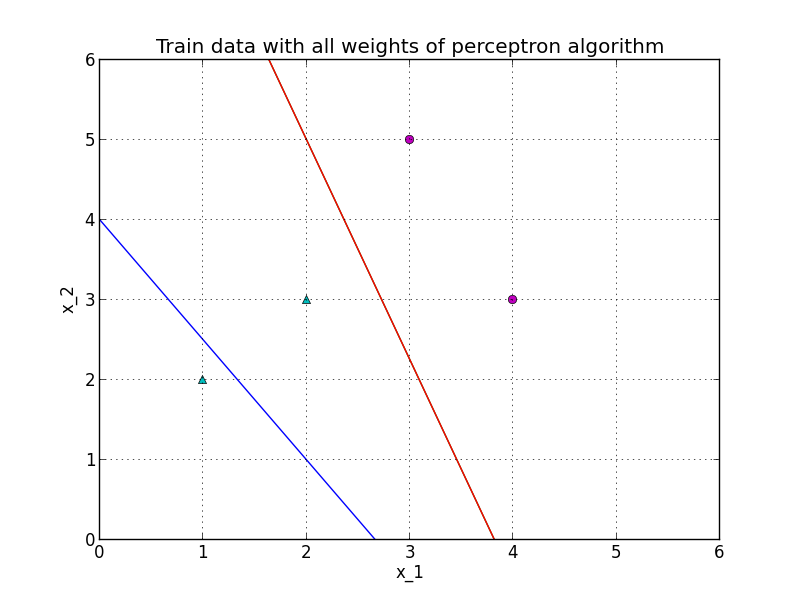
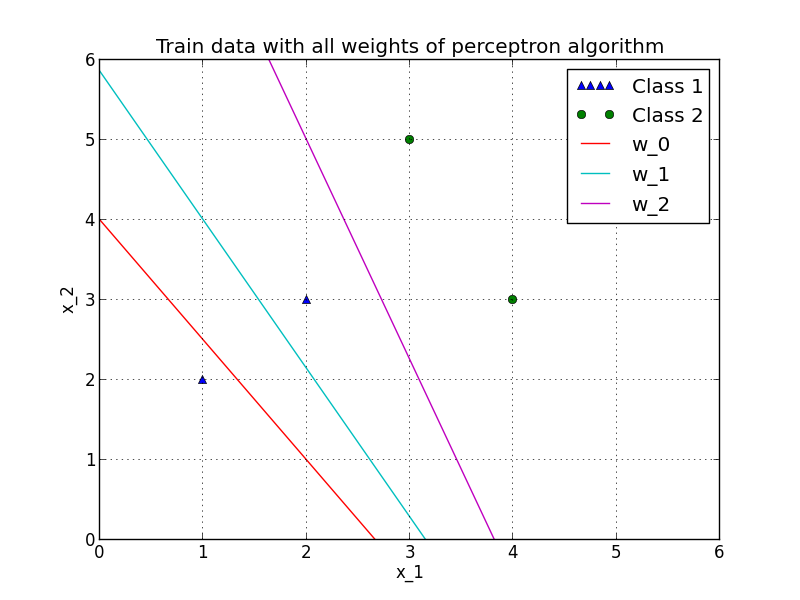
resized plot in README.md, initialized new weight vec in every iteration

diff --git a/src/perceptron.py b/src/perceptron.py
@@ -15,7 +15,6 @@ class Perceptron():
     # First calculate all feature vectors, which are not correct classified with the current weight. Afterwards apply
     # the perceptron learning rule to them.
     def train(self):
-        weight_new = [0.0, 0.0, 0.0]
         weight_old = self.weights[len(self.weights) - 1]
         (is_lin_sep, y_w) = self.is_linear_separation(weight_old)
 
@@ -26,13 +25,13 @@ class Perceptron():
                 sum[1] = sum[1] - self.target_values[i] * self.train_data[0][i]
                 sum[2] = sum[2] - self.target_values[i] * self.train_data[1][i]
 
+            weight_new = [0.0, 0.0, 0.0]
             for i in range(0, 3, 1):
                 weight_new[i] = weight_old[i] - self.rate * sum[i]
 
             self.weights.append(weight_new)
             weight_old = self.weights[len(self.weights) - 1]
             (is_lin_sep, y_w) = self.is_linear_separation(weight_old)
-
         return self.weights
 
     # Method determines whether the current weight classifies a feature vector as member of class 1 or -1.

diff --git a/src/plot.py b/src/plot.py
@@ -1,4 +1,5 @@
 import matplotlib.pyplot as plt
+from matplotlib.legend_handler import HandlerLine2D
 import numpy as np
 
 import src.perceptron
@@ -11,18 +12,20 @@ rate = 0.1;
 perceptron = src.perceptron.Perceptron(weight, rate, train_data, target_values)
 weights_all = perceptron.train()
 
+line1, = plt.plot(train_data[0][:2], train_data[1][:2], '^', label='Class 1')
+plt.plot(train_data[0][2:], train_data[1][2:], 'o', label='Class 2')
+
 t = np.arange(0.0, 6.0, 0.01)
-
-for i in weights_all:
-    y = (-t * i[1] - i[0]) / i[2]
-    plt.plot(t, y)
-
-plt.plot(train_data[0][:2], train_data[1][:2], '^')
-plt.plot(train_data[0][2:], train_data[1][2:], 'o')
+for index, value in enumerate(weights_all):
+    y = (-t * value[1] - value[0]) / value[2]
+    line, = plt.plot(t, y, label="w_" + str(index))
+    plt.legend(handler_map={line: HandlerLine2D(numpoints=4)})
 
 axes = plt.gca()
 axes.set_xlim([0.0, 6.0])
 axes.set_ylim([0.0, 6.0])
+
+plt.legend(handler_map={line1: HandlerLine2D(numpoints=4)})
 
 plt.xlabel('x_1')
 plt.ylabel('x_2')

diff --git a/README.md b/README.md
@@ -2,4 +2,4 @@ Perceptron algorithm
 --------------------
 [![Build Status](https://travis-ci.org/erohkohl/perceptron.svg?branch=master)](https://travis-ci.org/erohkohl/perceptron)
 
-![](./src/plot.png)
+<img src="./src/plot.png" width="580">
